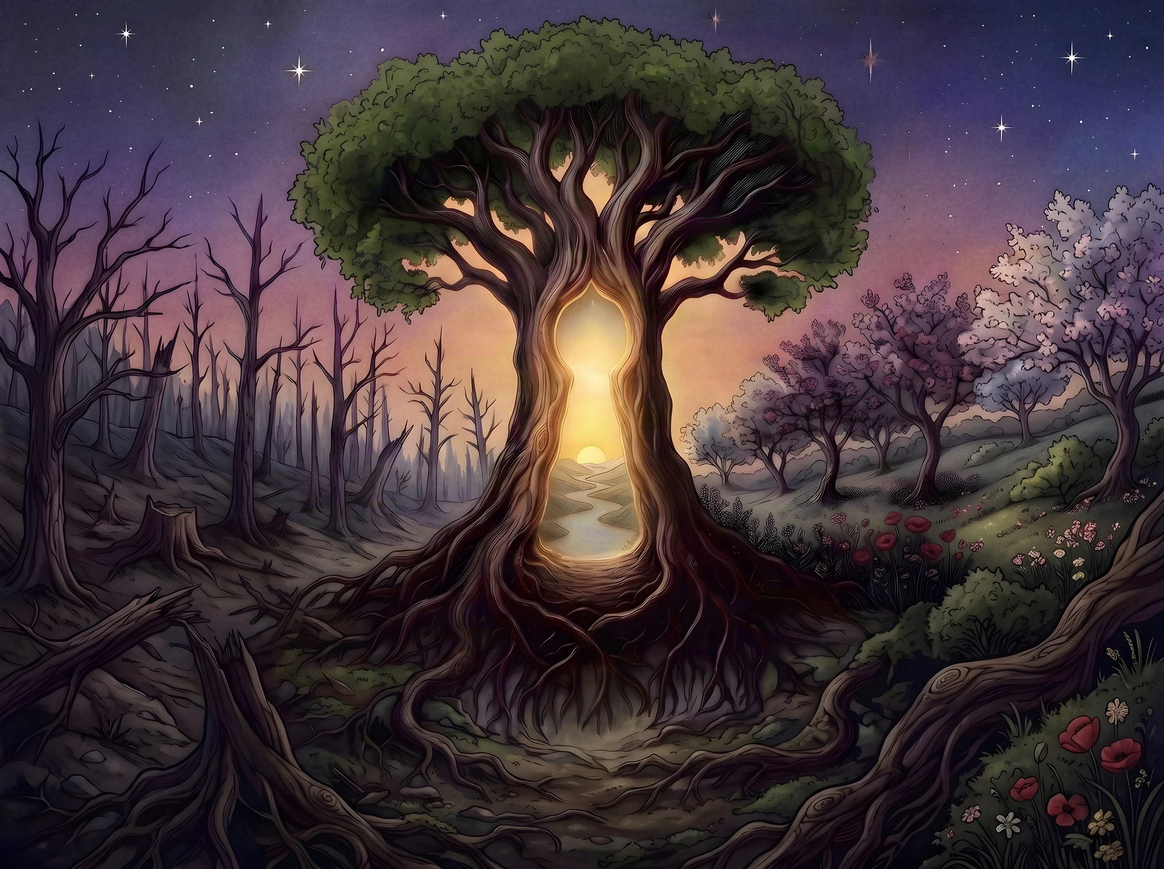
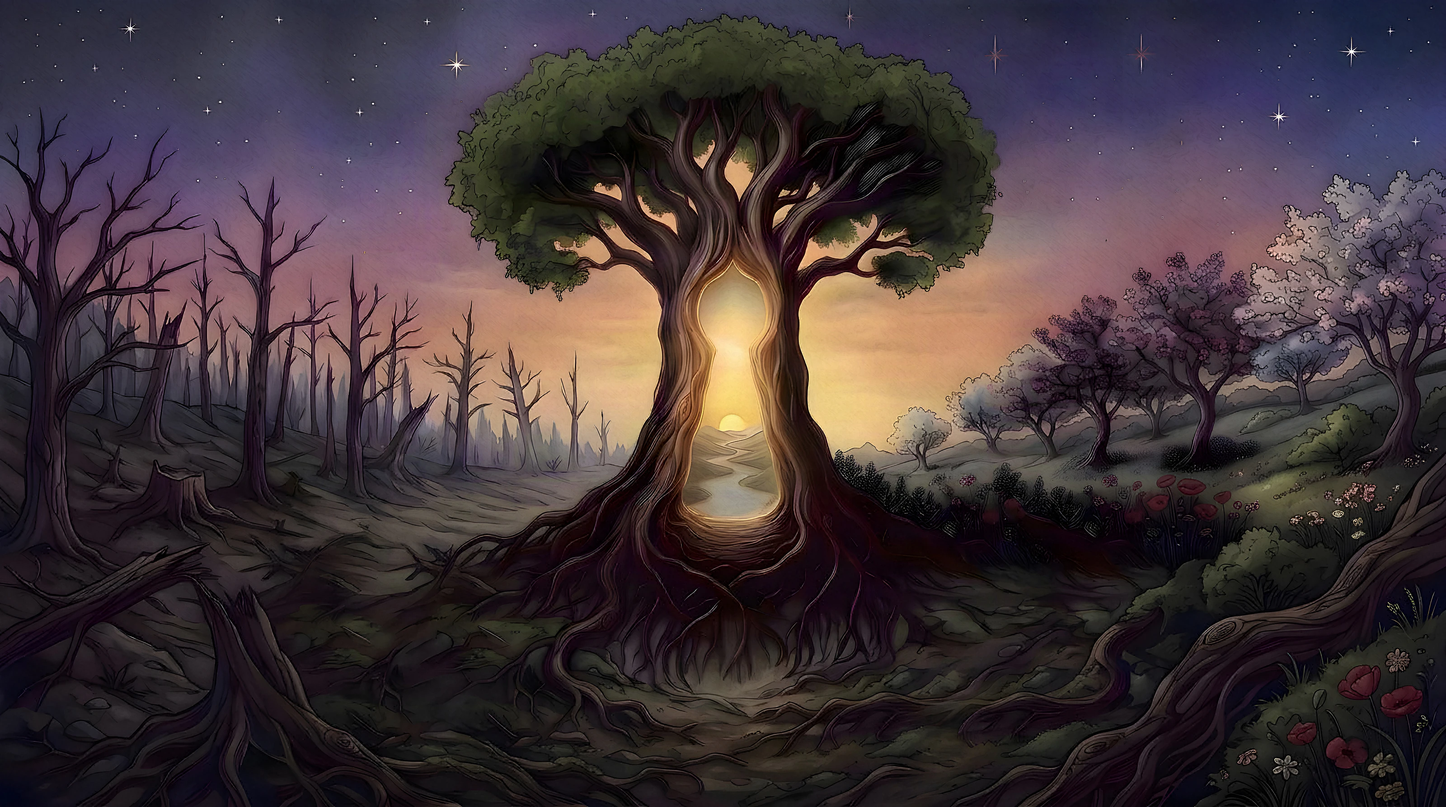
Image d'ouverture 16:9 (3200x1786) avec traits d'encre et crayon, lueur et étoiles recalées, titre remonté, halos du titre plus fins
Claude-Session: https://claude.ai/code/session_013GcFnatW4anFAXBN47GWwL

diff --git a/index.html b/index.html
@@ -505,7 +505,7 @@ footer p{color:var(--parch-dim);font-style:italic;margin-top:.4rem}
 .pz *,.pz *::before,.pz *::after{animation-play-state:paused!important}
 
 </style>
-<link rel="preload" as="image" href="img/ouverture-paysage.webp?v=3" media="(min-width:701px), (orientation:landscape)" fetchpriority="high"><link rel="preload" as="image" href="img/ouverture-m.webp?v=3" media="(max-width:700px) and (orientation:portrait)" fetchpriority="high">
+<link rel="preload" as="image" href="img/ouverture-paysage.webp?v=6" media="(min-width:701px), (orientation:landscape)" fetchpriority="high"><link rel="preload" as="image" href="img/ouverture-m.webp?v=3" media="(max-width:700px) and (orientation:portrait)" fetchpriority="high">
 <link rel="stylesheet" href="/css/laeria-bronze.css?v=28">
 <script>document.documentElement.classList.add("js-ipic");setTimeout(function(){var i=document.querySelector(".ipic");if(i)i.classList.add("ok")},6500)</script>
 </head>
@@ -521,8 +521,8 @@ footer p{color:var(--parch-dim);font-style:italic;margin-top:.4rem}
   <div class="istage">
     <div class="iworld" aria-hidden="true"></div>
     <div class="igrain" aria-hidden="true"></div>
-    <div class="icam"><picture><source media="(max-width:700px) and (orientation:portrait)" srcset="img/ouverture-m.webp?v=3"><img class="ipic" src="img/ouverture-paysage.webp?v=3" width="2576" height="1923" alt="Le chêne-serrure de Laëria : son tronc s'ouvre sur une rivière au soleil couchant, sous un ciel violet." fetchpriority="high" draggable="false"></picture></div>
-    <div class="iglow" aria-hidden="true"><picture><source media="(max-width:700px) and (orientation:portrait)" srcset="img/ouverture-lueur.webp"><img src="img/ouverture-lueur-paysage.webp" alt="" width="784" height="585" draggable="false"></picture></div>
+    <div class="icam"><picture><source media="(max-width:700px) and (orientation:portrait)" srcset="img/ouverture-m.webp?v=3"><img class="ipic" src="img/ouverture-paysage.webp?v=6" width="3200" height="1786" alt="Le chêne-serrure de Laëria : son tronc s'ouvre sur une rivière au soleil couchant, sous un ciel violet." fetchpriority="high" draggable="false"></picture></div>
+    <div class="iglow" aria-hidden="true"><picture><source media="(max-width:700px) and (orientation:portrait)" srcset="img/ouverture-lueur.webp"><img src="img/ouverture-lueur-paysage.webp?v=2" alt="" width="784" height="437" draggable="false"></picture></div>
     <div class="ivig" aria-hidden="true"></div>
     <div class="irays" aria-hidden="true"></div>
     <div class="ilight" aria-hidden="true"></div>
@@ -1009,7 +1009,7 @@ footer p{color:var(--parch-dim);font-style:italic;margin-top:.4rem}
     var G={},IW,IH,FX,FY,KH,TT;
     var portraitQ=window.matchMedia('(max-width:700px) and (orientation:portrait)');
     function geom(){var W=stage.clientWidth,H=stage.clientHeight;
-      if(portraitQ.matches){IW=1568;IH=2100;FX=.516;FY=.445;KH=.31;TT=.255;}else{IW=2576;IH=1923;FX=.51;FY=.46;KH=.31;TT=.285;}
+      if(portraitQ.matches){IW=1568;IH=2100;FX=.516;FY=.445;KH=.31;TT=.255;}else{IW=3200;IH=1786;FX=.51;FY=.46;KH=.31;TT=.268;}
       var s=Math.max(W/IW,H/IH);
       var ox=(W-IW*s)*.516,oy=(H-IH*s)*.33,gap=!portraitQ.matches&&s<W/IW-.0005;
       var pic=intro.querySelector('.ipic'),gimg=iglowEl&&iglowEl.querySelector('img');
@@ -2023,6 +2023,9 @@ html body .sealed:not(.breaking):not(.open)::before{opacity:0!important}
 html body .sealed::before{transition:opacity 2.6s ease}
 html body .sealed:not(.open)::after{display:none!important}
 .seal-part{position:absolute;pointer-events:none;z-index:7}
+/* titre d'ouverture : halos plus fins, moins de flou autour des lettres */
+html body .itit.sweep::before{filter:blur(1.6px)!important}
+html body .itit.sweep::after{filter:blur(8px)!important;opacity:.55}
 /* « Réserver » : une fois sur deux le trait doré fait le tour du cadre, une fois sur deux une brève vibration (cycle de 15 s) */
 @keyframes cadreOr2{0%{--ang:0deg;opacity:0}2.5%{opacity:1}16%{--ang:360deg;opacity:1}19%{--ang:360deg;opacity:0}100%{--ang:360deg;opacity:0}}
 @keyframes cadreVibre2{0%,50%,57.2%,100%{translate:0 0;rotate:0deg}50.8%{translate:-2.5px 0;rotate:-.6deg}51.6%{translate:2.5px 0;rotate:.6deg}52.4%{translate:-2.5px 0;rotate:-.5deg}53.2%{translate:2px 0;rotate:.5deg}54%{translate:-1.5px 0;rotate:-.3deg}54.8%{translate:1.5px 0;rotate:.3deg}55.6%{translate:-.8px 0;rotate:-.15deg}56.4%{translate:.8px 0;rotate:.1deg}57.2%{translate:0 0;rotate:0deg}}
@@ -2130,7 +2133,7 @@ html body .navbuy::before{animation:cadreOr2 15s ease-in-out 5s infinite!importa
 </script>
 <script src="/js/laeria-sweep.js?v=14" defer></script>
 <script src="/js/sceau-lumiere.js?v=5" defer></script>
-<script src="/js/intro-stars.js" defer></script>
+<script src="/js/intro-stars.js?v=2" defer></script>
 <script>
 /* barre d'état du téléphone : sombre sur l'écran d'ouverture (plus de bande violette), violette ensuite */
 (function(){

diff --git a/js/intro-stars.js b/js/intro-stars.js
@@ -1,7 +1,7 @@
 /* Scintillement très léger de quelques étoiles de l'image d'ouverture (celles déjà dessinées) */
 (function(){
   var cam=document.querySelector('.icam'),img=cam&&cam.querySelector('.ipic');if(!cam||!img)return;
-  var D=[[.2585,.082,0],[.861,.146,1.7],[.172,.139,.9],[.974,.176,2.6]];      // paysage
+  var D=[[.3156,.0801,0],[.8844,.1445,1.7],[.2488,.1389,.9],[.9788,.1753,2.6]];      // paysage
   var M=[[.079,.080,0],[.699,.024,1.5],[.928,.0675,.7],[.293,.019,2.4]];      // portrait
   var layer=document.createElement('div');layer.className='istars';layer.setAttribute('aria-hidden','true');cam.appendChild(layer);
   var els=[];for(var i=0;i<4;i++){var s=document.createElement('i');layer.appendChild(s);els.push(s)}
